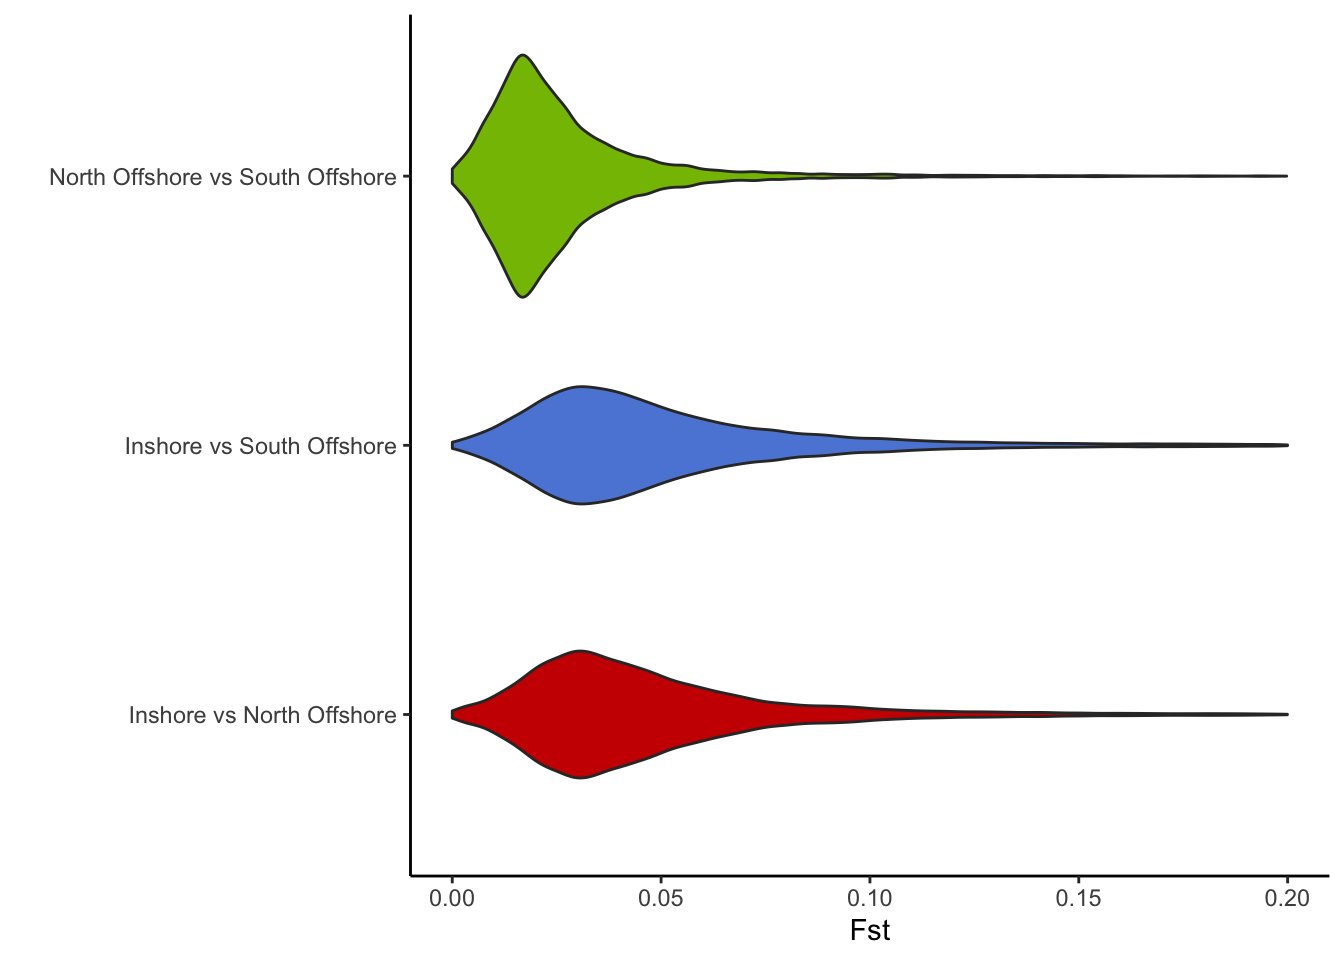
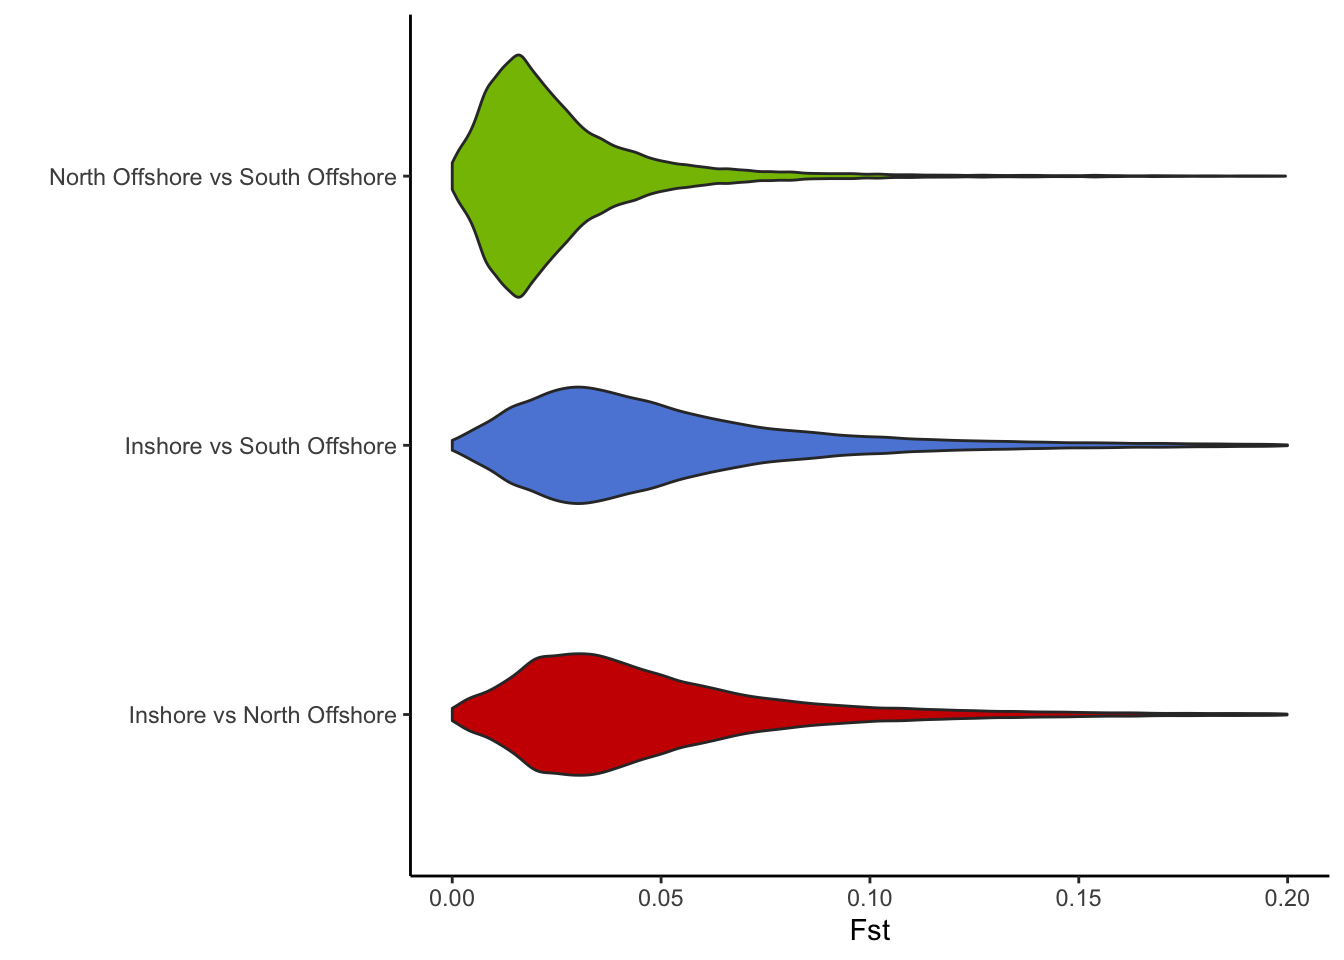
Update data list and popgen stats

diff --git a/13.popgen_stats_angsd.md b/13.popgen_stats_angsd.md
@@ -12,24 +12,27 @@ Detailed shell scripts required to run these analyses can be found in
     quality SNPs remaining in the final step of
     [02.quality\_control.md](02.quality_control.md)
 
+<!-- end list -->
+
 ``` bash
 zcat Adigi.v2.filtered.vcf.gz | grep -v '^#' | awk 'BEGIN{OFS="\t"}{print $1,$2}' > sites.txt
 angsd sites index sites.txt
 ```
 
-1.  Calculate the SFS separately for each population (see
+2.  Calculate the SFS separately for each population (see
     [here](data/hpc/thetastat/02_allele_freqs.sh) and
     [here](data/hpc/thetastat/03_realsfs.sh))
-2.  Export thetas (includes nucleotide diversity and Tajima's D) for
+3.  Export thetas (includes nucleotide diversity and Tajima's D) for
     each population in a sliding window
-3.  Calculate 2D SFS for each pair of populations
-4.  Export pairwise Fst for each pair of populations as well as the
+4.  Calculate 2D SFS for each pair of populations
+5.  Export pairwise Fst for each pair of populations as well as the
     population branch statistic
 
 ### Genome-wide Nucleotide diversity and Tajima's D
 
 The genome-wide distributions of both pairwise nucleotide diversity and
-Tajima’s D are extremely similar to those estimated from genotypes.
+Tajima’s D are extremely similar to those estimated from
+genotypes.
 
 <img src="13.popgen_stats_angsd_files/figure-gfm/td-pi-boxplot-1.png" width="672" />
 
@@ -47,9 +50,9 @@ offshore sites.
     ## # A tibble: 3 x 3
     ##   pair   stdev    Fst
     ##   <chr>  <dbl>  <dbl>
-    ## 1 Fst01 0.0400 0.0487
-    ## 2 Fst02 0.0441 0.0522
-    ## 3 Fst12 0.0235 0.0265
+    ## 1 Fst01 0.0451 0.0500
+    ## 2 Fst02 0.0498 0.0539
+    ## 3 Fst12 0.0265 0.0262
 
 <img src="13.popgen_stats_angsd_files/figure-gfm/fst-violin-plot-1.png" width="672" />
 
@@ -77,9 +80,9 @@ cd data/hpc/ragtag
 **Figure 3:** Manhattan plots showing values of the population branch
 statistic for each focal population
 
-<div id="refs" class="references csl-bib-body hanging-indent">
+<div id="refs" class="references">
 
-<div id="ref-Yi2010-br" class="csl-entry">
+<div id="ref-Yi2010-br">
 
 Yi, Xin, Yu Liang, Emilia Huerta-Sanchez, Xin Jin, Zha Xi Ping Cuo, John
 E Pool, Xun Xu, et al. 2010. “Sequencing of 50 Human Exomes Reveals
